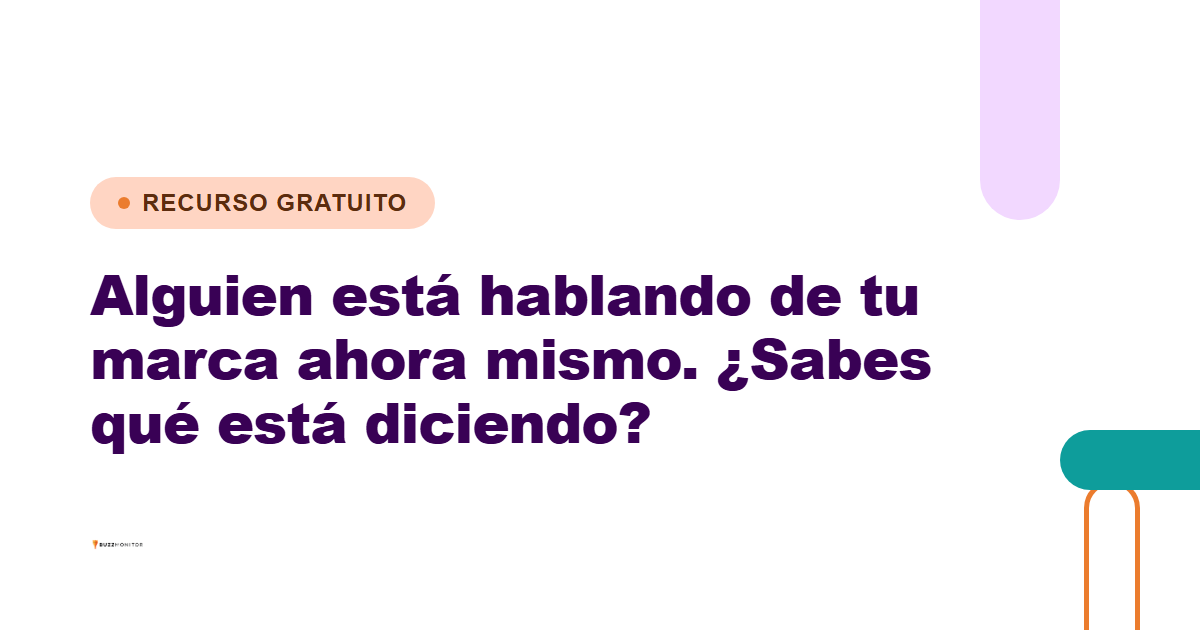
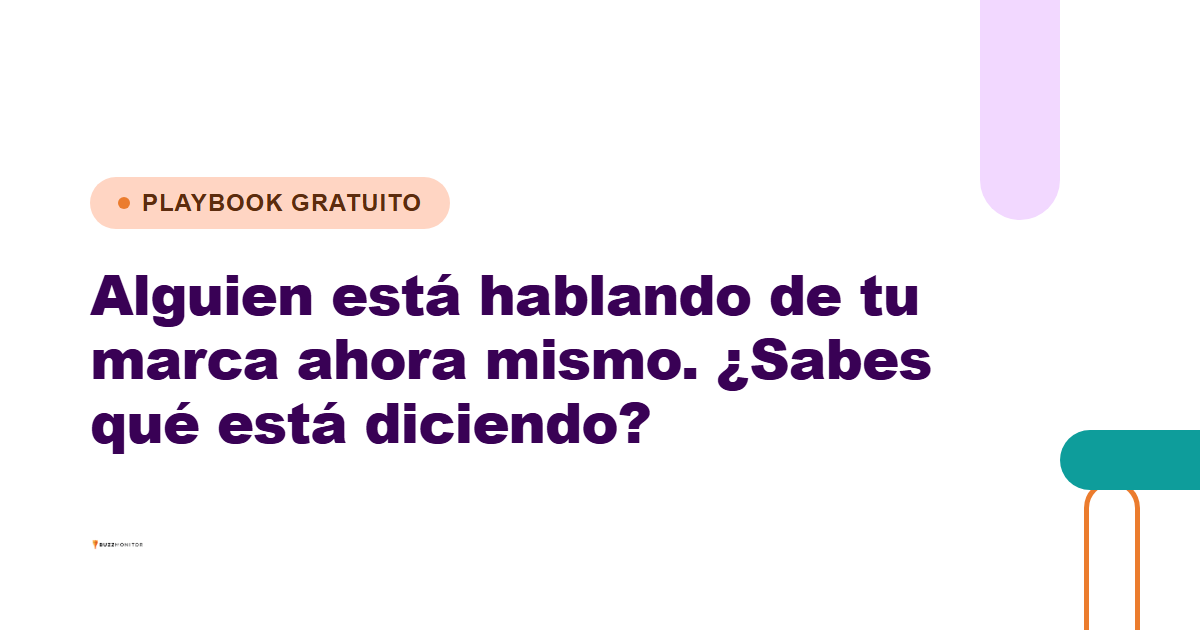
Enriquecer form e ajustar overline da LP social-listening-guia-es

Changed region(s): [[0.1233, 0.2714, 0.4008, 0.3619]]

diff --git a/landing-pages/buzzmonitor/social-listening-guia-es/index.html b/landing-pages/buzzmonitor/social-listening-guia-es/index.html
@@ -260,6 +260,20 @@
     .float-card.c4{top: 38%; right: -6%; color: var(--purple);}
     .float-card.c5{bottom: -2%; left: 6%; color: var(--pink);}
     .float-card.c6{bottom: 0%; right: 2%; color: var(--teal);}
+
+    /* Movimiento continuo (referencia: plataforma-integral-social-media) */
+    @keyframes float-y{ 0%,100%{ transform: translateY(0); } 50%{ transform: translateY(-10px); } }
+    .float-card{ animation: float-y 4.6s ease-in-out infinite; }
+    .float-card.c1{ animation-delay: 0s; }
+    .float-card.c2{ animation-delay: .5s; }
+    .float-card.c3{ animation-delay: 1s; }
+    .float-card.c4{ animation-delay: 1.5s; }
+    .float-card.c5{ animation-delay: 2s; }
+    .float-card.c6{ animation-delay: 2.5s; }
+    .hero-mascot{ animation: float-y 5.2s ease-in-out infinite; animation-delay: .3s; }
+    @media (prefers-reduced-motion: reduce){
+      .float-card, .hero-mascot{ animation: none; }
+    }
     .float-card.icon-only{width:auto; padding:18px; align-items:center;}
     @media (max-width: 980px){
       .hero__visual{height:400px; max-width:400px;}
@@ -283,34 +297,49 @@
       background: var(--mist);
       padding: 100px 0;
     }
+    .section-form .wrap{
+      display:grid; grid-template-columns: 0.85fr 1fr; gap:72px; align-items:center;
+    }
     .form-card{
-      max-width: 620px; margin: 0 auto;
-      background: #fff; border-radius: var(--radius-lg);
-      border: 1px solid var(--line);
-      padding: 56px 48px;
-      box-shadow: 0 20px 50px rgba(57,1,85,0.08);
+      background: var(--teal); border-radius: var(--radius-lg);
+      padding: 40px 36px;
+      box-shadow: 0 20px 50px rgba(14,157,155,0.25);
     }
     .form-card h2{
       font-family: var(--font-heading); font-weight:800;
-      font-size: clamp(24px, 3vw, 32px);
-      color: var(--purple);
-      text-align:center; margin-bottom: 32px;
+      font-size: clamp(22px, 2.6vw, 28px);
+      color: #fff;
+      margin-bottom: 28px;
     }
-    .form-grid{display:flex; flex-direction:column; gap:20px;}
-    .form-field{display:flex; flex-direction:column; gap:8px;}
-    .form-field label{font-weight:700; font-size:14px; color: var(--ink);}
+    .form-grid{display:flex; flex-direction:column; gap:16px;}
+    .form-field{display:flex; flex-direction:column; gap:6px;}
+    .form-field label{font-weight:700; font-size:13px; color: rgba(255,255,255,0.9);}
     .form-field input{
-      font-family: var(--font-body); font-size:16px;
-      padding: 14px 16px; border:1.5px solid var(--line); border-radius: var(--radius-md);
+      font-family: var(--font-body); font-size:15px;
+      padding: 13px 16px; border:none; border-radius: var(--radius-md);
       background:#fff; color: var(--ink);
     }
-    .form-field input:focus{border-color: var(--orange); outline:none;}
+    .form-field input:focus-visible{outline: 3px solid var(--purple); outline-offset: 2px;}
     .form-card .btn-primary{
-      justify-content:center; margin-top: 12px; width:100%;
-      background: var(--orange); color:#fff;
+      justify-content:center; margin-top: 8px; width:100%;
+      background: var(--pink); color:#fff;
     }
+    .form-card .btn-primary:hover{background: #c01d44;}
     .form-disclaimer{
-      font-size: 13px; color: var(--ink-soft); text-align:center; margin-top:16px;
+      font-size: 12.5px; color: rgba(255,255,255,0.8); text-align:center; margin-top:16px;
+    }
+    .form-extra__tagline{
+      font-family: var(--font-heading); font-weight:800;
+      font-size: clamp(24px, 3vw, 34px); line-height:1.25;
+      color: var(--ink); margin-bottom: 24px;
+    }
+    .form-extra__tagline .plus{color: var(--teal);}
+    .form-extra p{font-size:16px; color: var(--ink-soft); margin-bottom:16px;}
+    .form-extra p:last-child{margin-bottom:0;}
+    @media (max-width: 900px){
+      .section-form .wrap{grid-template-columns: 1fr; gap:40px;}
+      .form-extra{order:2;}
+      .form-card{order:1;}
     }
 
     /* ============ DESTAQUE (pausa) ============ */
@@ -523,7 +552,7 @@
     <section class="hero">
       <div class="wrap">
         <div class="hero-content reveal">
-          <span class="hero__eyebrow">RECURSO GRATUITO</span>
+          <span class="hero__eyebrow">PLAYBOOK GRATUITO</span>
           <h1>Alguien está hablando de tu marca ahora mismo. <span class="grad">¿Sabes qué está diciendo?</span></h1>
           <p class="hero__sub">Descarga la guía completa para crear tu primer proyecto de Social Listening: qué es realmente, en qué se diferencia del simple monitoreo y cómo implementarlo paso a paso en tu equipo.</p>
           <a href="#form" class="btn-primary">
@@ -588,6 +617,11 @@
             </button>
           </form>
           <p class="form-disclaimer">Al registrarte aceptas recibir comunicaciones de Buzzmonitor.</p>
+        </div>
+        <div class="form-extra reveal">
+          <p class="form-extra__tagline">Teoría <span class="plus">+</span> paso a paso <span class="plus">+</span> plantilla <span class="plus">+</span> glosario.</p>
+          <p>Si sientes que reaccionas siempre un paso tarde a lo que dicen de tu marca, este material es para ti.</p>
+          <p>Descárgalo, complétalo mientras lo lees y quédate con la plantilla y el resumen para tu líder.</p>
         </div>
       </div>
     </section>
